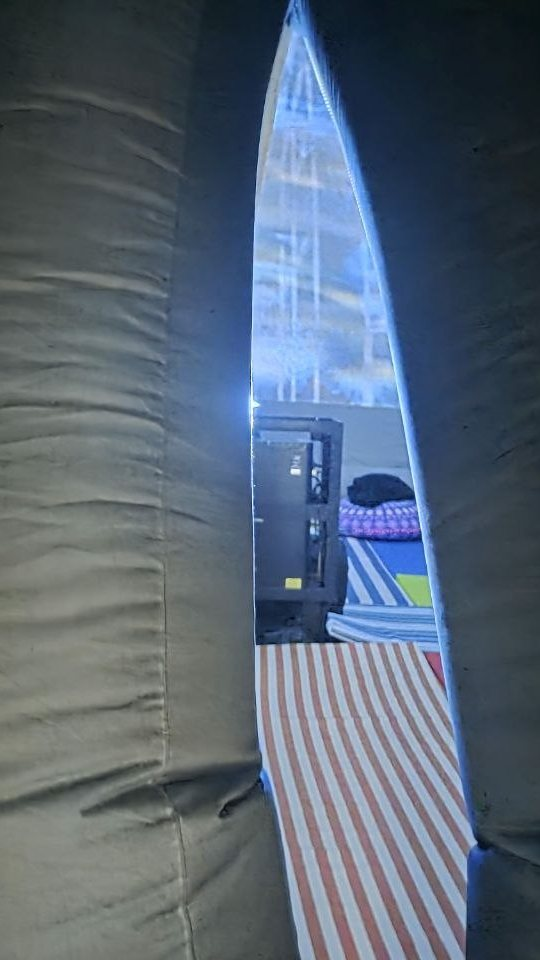
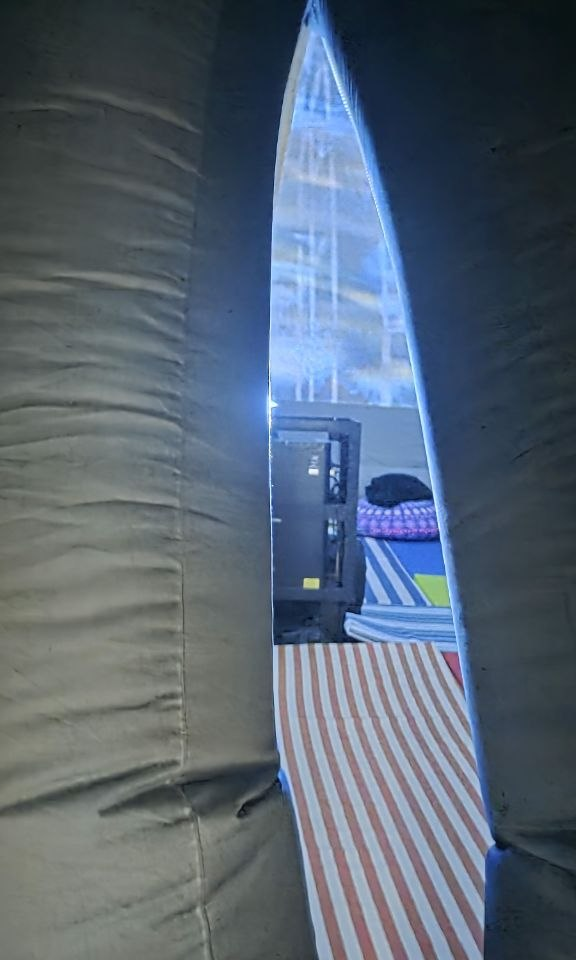
C+: trance kick sound / mobile portrait crop / LCP preload

diff --git a/index.html b/index.html
@@ -231,10 +231,16 @@ h1 {
 /* Mobile art direction — portrait crop, designed not accidental */
 @media (max-width: 600px) {
   .hero-bg {
-    background-image: url("img/entry-slit-portrait.jpg");
-    background-size: cover;
-    background-position: center center;
+    background-position: center 38%;
+    background-size: 320%;
   }
+}
+
+picture.hero-bg::after {
+  content: '';
+  position: absolute; inset: 0;
+  background: linear-gradient(180deg,rgba(18,16,14,.28) 0%,rgba(18,16,14,.55) 52%,var(--bg) 100%);
+  pointer-events: none;
 }
 
 /* ── LAYOUT ──────────────────────────────────────────────── */
@@ -611,7 +617,10 @@ details p {
 <!-- HERO: THE THRESHOLD                                      -->
 <!-- ──────────────────────────────────────────────────────── -->
 <header class="hero" id="hero">
-  <div class="hero-bg" id="heroBg"></div>
+  <picture class="hero-bg" id="heroBg" style="display:block;position:absolute;inset:0;">
+    <source srcset="img/entry-slit-portrait.jpg" media="(max-width: 600px)">
+    <img src="img/entry-slit.jpg" alt="" style="width:100%;height:100%;object-fit:cover;object-position:center;opacity:.52;">
+  </picture>
   <div class="slit-fallback" id="slitFallback"></div>
 
   <div class="hero-inner">
@@ -884,13 +893,13 @@ const bg = document.getElementById('heroBg');
 const probe = new Image();
 probe.onload = () => {};
 probe.onerror = () => {
-  bg.style.backgroundImage = 'none';
+  bg.style.display = 'none';
   document.getElementById('slitFallback').style.display = 'block';
 };
 probe.src = 'img/entry-slit.jpg';
 
-/* ── SOUND CHANNEL (trance synthesis: bass drone + 130BPM kick) ── */
-let audioCtx, masterGain, osc1, osc2, soundOn = false, kickTimer = null;
+/* ── SOUND CHANNEL (Web Audio API — trance) ──────────────── */
+let audioCtx, masterGain, kickTimer, droneOsc, soundOn = false;
 
 function initAudio() {
   audioCtx = new (window.AudioContext || window.webkitAudioContext)();
@@ -898,50 +907,28 @@ function initAudio() {
   masterGain.gain.setValueAtTime(0, audioCtx.currentTime);
   masterGain.connect(audioCtx.destination);
 
-  // Sub-bass drone — foundation layer
-  const g1 = audioCtx.createGain(); g1.gain.value = 0.45;
-  osc1 = audioCtx.createOscillator();
-  osc1.type = 'sine';
-  osc1.frequency.value = 55; // A1
-  osc1.connect(g1); g1.connect(masterGain);
+  // Drone: A2 — 110Hz
+  const droneGain = audioCtx.createGain(); droneGain.gain.value = 0.28;
+  droneOsc = audioCtx.createOscillator();
+  droneOsc.type = 'sine'; droneOsc.frequency.value = 110;
+  droneOsc.connect(droneGain); droneGain.connect(masterGain);
+  droneOsc.start();
 
-  // Pad layer — detuned fifth for warmth
-  const g2 = audioCtx.createGain(); g2.gain.value = 0.22;
-  osc2 = audioCtx.createOscillator();
-  osc2.type = 'sine';
-  osc2.frequency.value = 82.4; // E2
-  osc2.connect(g2); g2.connect(masterGain);
-
-  // Organic drift
-  const drift = new Float32Array([55, 55.4, 54.7, 55.2, 55.0]);
-  osc1.frequency.setValueCurveAtTime(drift, audioCtx.currentTime, 16);
-
-  osc1.start(); osc2.start();
-
-  // 130BPM kick — synthetic thump (80Hz→40Hz, 80ms decay)
-  const beatSec = 60 / 130; // 0.4615s
-  function scheduleKicks(fromTime, count) {
-    for (let i = 0; i < count; i++) {
-      const t = fromTime + i * beatSec;
-      const kOsc = audioCtx.createOscillator();
-      const kGain = audioCtx.createGain();
-      kOsc.type = 'sine';
-      kOsc.frequency.setValueAtTime(80, t);
-      kOsc.frequency.exponentialRampToValueAtTime(38, t + 0.07);
-      kGain.gain.setValueAtTime(0.5, t);
-      kGain.gain.exponentialRampToValueAtTime(0.001, t + 0.14);
-      kOsc.connect(kGain); kGain.connect(masterGain);
-      kOsc.start(t); kOsc.stop(t + 0.14);
-    }
-  }
-  // Schedule kicks in rolling 4-beat windows
-  function rollKicks() {
-    if (!soundOn) return;
-    scheduleKicks(audioCtx.currentTime + 0.05, 8);
-    kickTimer = setTimeout(rollKicks, beatSec * 8 * 1000 - 50);
-  }
-  // Store rollKicks for use after toggle
-  initAudio._roll = rollKicks;
+  // 130 BPM kick pattern
+  const interval = Math.round(60000 / 130); // ~461ms
+  kickTimer = setInterval(() => {
+    if (!audioCtx || audioCtx.state !== 'running') return;
+    const now = audioCtx.currentTime;
+    const kGain = audioCtx.createGain();
+    kGain.gain.setValueAtTime(0.65, now);
+    kGain.gain.exponentialRampToValueAtTime(0.001, now + 0.14);
+    kGain.connect(masterGain);
+    const k = audioCtx.createOscillator();
+    k.type = 'sine';
+    k.frequency.setValueAtTime(85, now);
+    k.frequency.exponentialRampToValueAtTime(42, now + 0.10);
+    k.connect(kGain); k.start(now); k.stop(now + 0.16);
+  }, interval);
 }
 
 function toggleSound() {
@@ -952,19 +939,17 @@ function toggleSound() {
   const hero = document.getElementById('hero');
 
   if (soundOn) {
-    masterGain.gain.setTargetAtTime(0.15, audioCtx.currentTime, 2.8);
+    if (audioCtx.state === 'suspended') audioCtx.resume();
+    masterGain.gain.setTargetAtTime(0.18, audioCtx.currentTime, 2.2);
     btn.classList.add('active');
     label.textContent = 'כבה';
     hero.classList.add('sound-on');
-    // Start 130BPM kick pattern
-    if (initAudio._roll) initAudio._roll();
   } else {
-    masterGain.gain.setTargetAtTime(0, audioCtx.currentTime, 2);
+    masterGain.gain.setTargetAtTime(0, audioCtx.currentTime, 1.8);
     btn.classList.remove('active');
     label.textContent = 'שמע מה שמחכה בפנים';
     hero.classList.remove('sound-on');
-    // Stop kick scheduler
-    if (kickTimer) { clearTimeout(kickTimer); kickTimer = null; }
+    if (kickTimer) { clearInterval(kickTimer); kickTimer = null; }
   }
 }
 